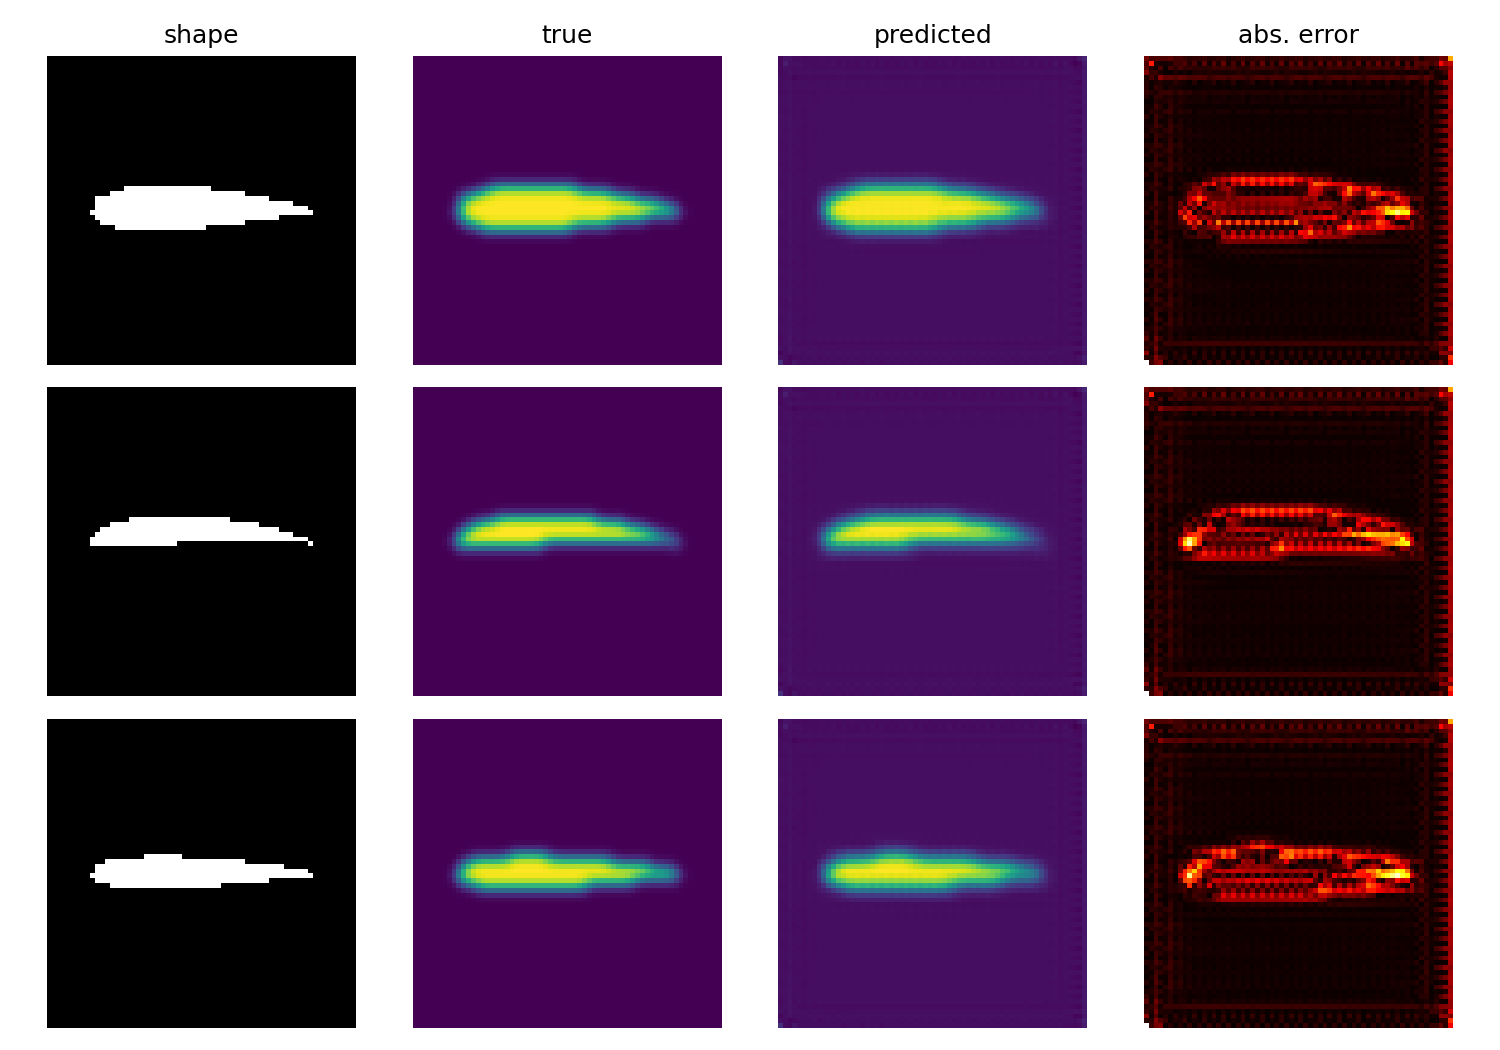
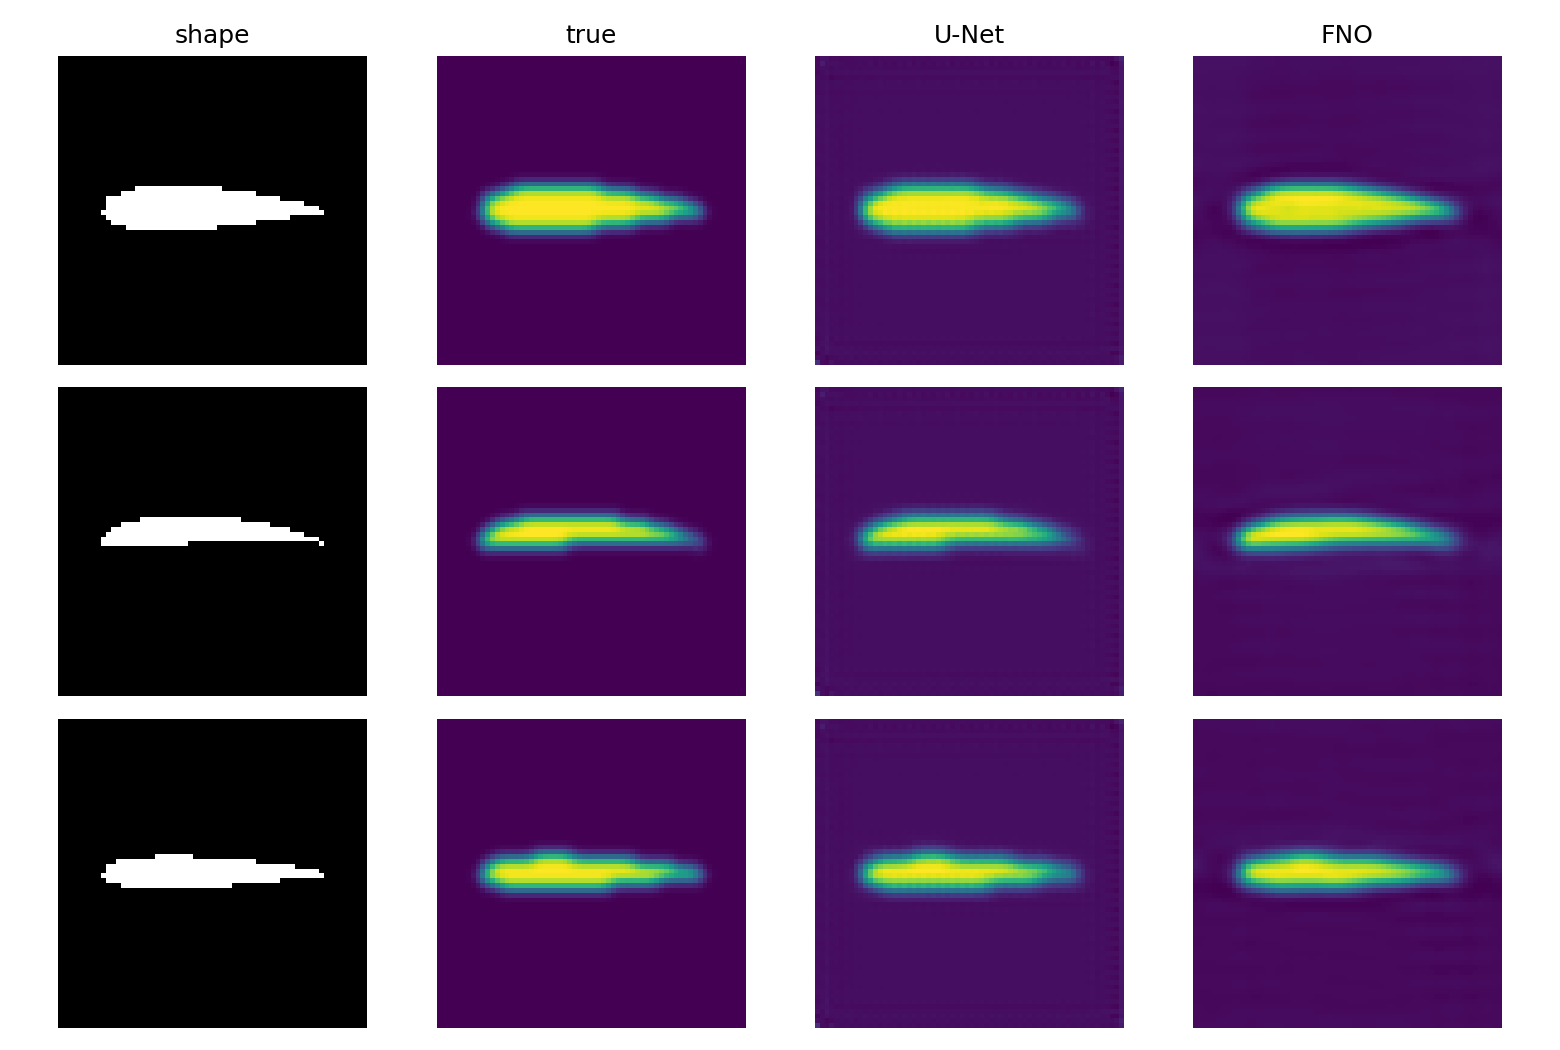
Evaluate both models side by side

diff --git a/src/evaluate.py b/src/evaluate.py
@@ -5,11 +5,11 @@ import torch
 import matplotlib
 matplotlib.use("Agg")
 import matplotlib.pyplot as plt
-from models import UNet
+from pathlib import Path
+from models import UNet, FNO
 
 ap = argparse.ArgumentParser()
 ap.add_argument("--data", default="data/synthetic.npz")
-ap.add_argument("--weights", default="results/unet.pt")
 ap.add_argument("--out", default="results/comparison.png")
 args = ap.parse_args()
 
@@ -23,37 +23,50 @@ Y = torch.tensor(d["fields"])
 ntr = int(0.8 * len(X))                      # same split as train.py
 Xva, Yva = X[ntr:].to(dev), Y[ntr:].to(dev)
 
-model = UNet().to(dev)
-model.load_state_dict(torch.load(args.weights, map_location=dev))
-model.eval()
+def rel(pred, y):
+    return ((pred - y).flatten(1).norm(dim=1) / y.flatten(1).norm(dim=1)).mean().item()
 
-with torch.no_grad():
-    pred = model(Xva)
-    # relative L2 error for each field separately
-    for i, name in enumerate(["pressure", "velocity u", "velocity v"]):
-        e = ((pred[:, i] - Yva[:, i]).flatten(1).norm(dim=1)
-             / Yva[:, i].flatten(1).norm(dim=1)).mean().item()
-        print(f"{name}: relative error {e:.3f}")
+models = {"U-Net": (UNet, "results/unet.pt"), "FNO": (FNO, "results/fno.pt")}
+preds, rows = {}, []
 
-    # speed: time per sample, after a warm-up run
-    model(Xva[:1])
-    t0 = time.perf_counter()
-    for _ in range(50):
-        model(Xva[:1])
-    ms = (time.perf_counter() - t0) / 50 * 1000
-    print(f"inference time: {ms:.1f} ms per sample on {dev}")
+for name, (cls, path) in models.items():
+    if not Path(path).exists():
+        print(f"skipping {name}: {path} not found")
+        continue
+    net = cls().to(dev)
+    net.load_state_dict(torch.load(path, map_location=dev))
+    net.eval()
+    with torch.no_grad():
+        p = net(Xva)
+        errs = [rel(p[:, i], Yva[:, i]) for i in range(3)]
+        net(Xva[:1])                          # warm-up
+        t0 = time.perf_counter()
+        for _ in range(50):
+            net(Xva[:1])
+        ms = (time.perf_counter() - t0) / 50 * 1000
+    preds[name] = p
+    rows.append((name, *errs, ms, sum(q.numel() for q in net.parameters())))
 
-# picture: shape, true pressure, predicted pressure, difference
-fig, ax = plt.subplots(3, 4, figsize=(10, 7))
+table = ["| Model | Pressure error | Velocity u error | Velocity v error | ms/sample | Parameters |",
+         "|-------|----------------|------------------|------------------|-----------|------------|"]
+for n, e1, e2, e3, ms, npar in rows:
+    table.append(f"| {n} | {e1:.3f} | {e2:.3f} | {e3:.3f} | {ms:.1f} | {npar:,} |")
+text = "\n".join(table)
+print(text)
+Path("results/results_table.md").write_text(text + "\n")
+
+# figure: shape, true pressure, then each model's prediction
+cols = ["shape", "true"] + list(preds)
+fig, ax = plt.subplots(3, len(cols), figsize=(2.6 * len(cols), 7))
 for r in range(3):
     ax[r, 0].imshow(Xva[r, 0].cpu(), cmap="gray")
     ax[r, 1].imshow(Yva[r, 0].cpu())
-    ax[r, 2].imshow(pred[r, 0].cpu())
-    ax[r, 3].imshow((pred[r, 0] - Yva[r, 0]).abs().cpu(), cmap="hot")
-for c, t in enumerate(["shape", "true", "predicted", "abs. error"]):
+    for c, name in enumerate(preds, start=2):
+        ax[r, c].imshow(preds[name][r, 0].cpu())
+for c, t in enumerate(cols):
     ax[0, c].set_title(t)
 for a in ax.flat:
     a.axis("off")
 plt.tight_layout()
 plt.savefig(args.out, dpi=150)
-print("saved", args.out)
+print("saved", args.out, "and results/results_table.md")

diff --git a/results/results_table.md b/results/results_table.md
@@ -1,0 +1,4 @@
+| Model | Pressure error | Velocity u error | Velocity v error | ms/sample | Parameters |
+|-------|----------------|------------------|------------------|-----------|------------|
+| U-Net | 0.058 | 0.013 | 0.192 | 3.7 | 481,779 |
+| FNO | 0.081 | 0.018 | 0.116 | 12.7 | 1,186,307 |
